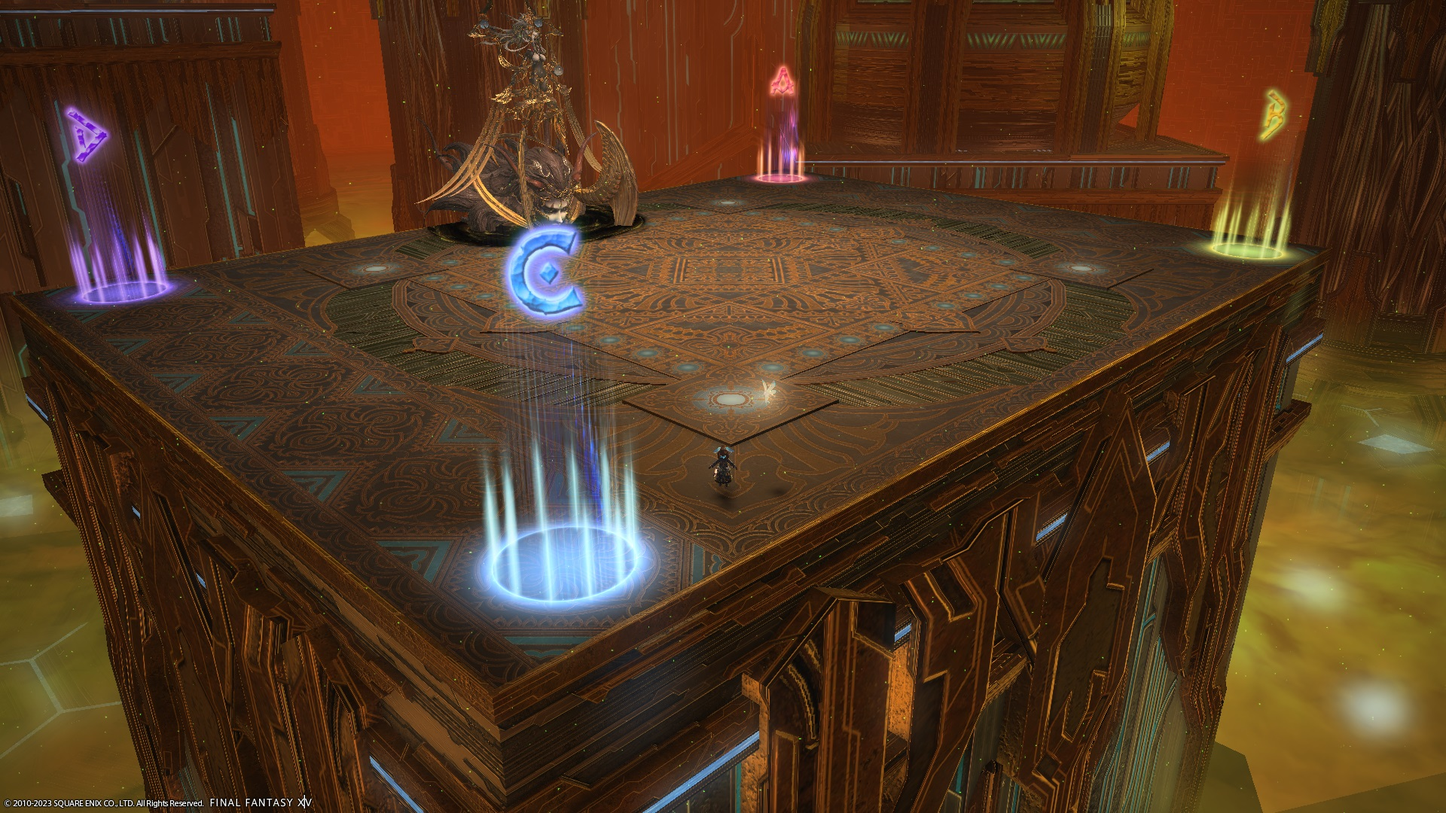
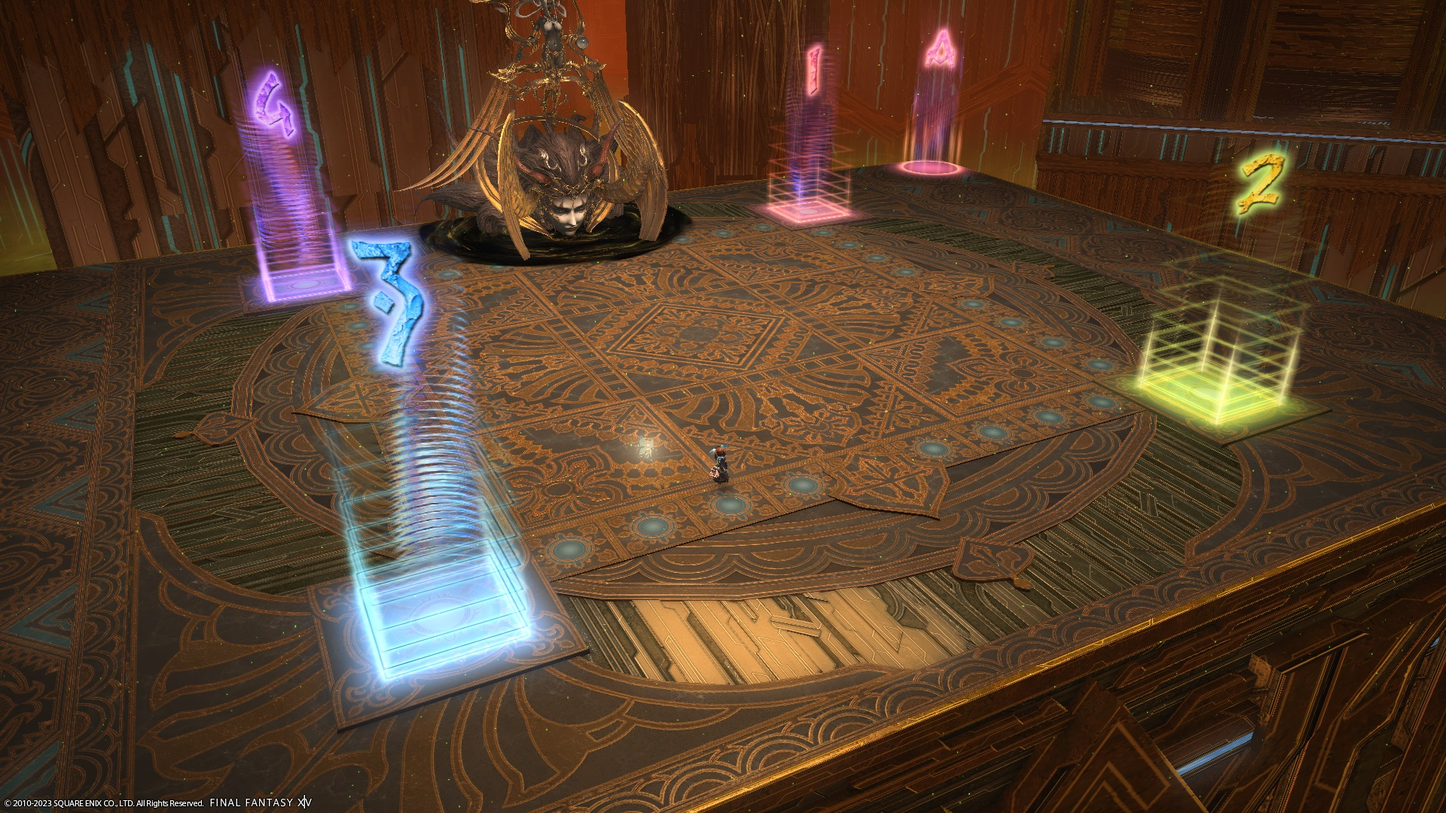
Update Sophia EX with Nukemaru's guide

diff --git a/3.0_heavensward/extreme_trials/sophia/README.md b/3.0_heavensward/extreme_trials/sophia/README.md
@@ -9,9 +9,16 @@ permalink: /3.0_heavensward/extreme_trials/sophia/
 
 # Containment Bay P1T6 (Extreme)
 
+An up-to-date reference would be Nukemaru's guide:
+
+{% include youtube.html id="WsiSU759ff8" %}
+
 ## Things to check
 
 - Check the Sin and Punishment spread positions.
+- Check which tank takes which add.
+
+*(These two points are different from older macros.)*
 
 ## Japanese
 ```
@@ -25,7 +32,7 @@ permalink: /3.0_heavensward/extreme_trials/sophia/
 
 ## Markers
 
-The `ABCD` markers are for orientation.
+The `1234` markers mark the boundary for the "weak" knockback.
 
 The `A` marker is used as a gathering point to bait falloff AoEs during second Quasar.
 
@@ -34,13 +41,14 @@ The `A` marker is used as a gathering point to bait falloff AoEs during second Q
 <summary>XIVLauncher WaymarkPresetPlugin positions</summary>
 
 ```json
-{"Name":"Sophia EX","MapID":184,"A":{"X":16.863,"Y":0.0,"Z":-12.567,"ID":0,"Active":true},"B":{"X":16.863,"Y":0.0,"Z":12.567,"ID":1,"Active":true},"C":{"X":-16.863,"Y":0.0,"Z":12.567,"ID":2,"Active":true},"D":{"X":-16.863,"Y":0.0,"Z":-12.567,"ID":3,"Active":true},"One":{"X":0.0,"Y":0.0,"Z":0.0,"ID":4,"Active":false},"Two":{"X":0.0,"Y":0.0,"Z":0.0,"ID":5,"Active":false},"Three":{"X":0.0,"Y":0.0,"Z":0.0,"ID":6,"Active":false},"Four":{"X":0.0,"Y":0.0,"Z":0.0,"ID":7,"Active":false}}
+{"Name":"Sophia EX","MapID":184,"A":{"X":18.4,"Y":0.0,"Z":-13.3,"ID":0,"Active":true},"B":{"X":0.0,"Y":0.0,"Z":0.0,"ID":1,"Active":false},"C":{"X":0.0,"Y":0.0,"Z":0.0,"ID":2,"Active":false},"D":{"X":0.0,"Y":0.0,"Z":0.0,"ID":3,"Active":false},"One":{"X":9.3,"Y":0.0,"Z":-9.3,"ID":4,"Active":true},"Two":{"X":9.3,"Y":0.0,"Z":9.3,"ID":5,"Active":true},"Three":{"X":-9.3,"Y":0.0,"Z":9.3,"ID":6,"Active":true},"Four":{"X":-9.3,"Y":0.0,"Z":-9.3,"ID":7,"Active":true}}
 ```
 
 </details>
 
 ## Equilibrium Tilts
 
-- Always dodge to the side opposite the blue Meteor
+- Always move to the side with more tethers.
+    - If the number of tethers on both sides are equal, move opposite the blue Meteor.
 - If the total number of meteors/tethers is **even**, go all the way to the edge.
 - If the total number of meteors/tethers is **odd**, stop around 1/4 of the way to the edge.
